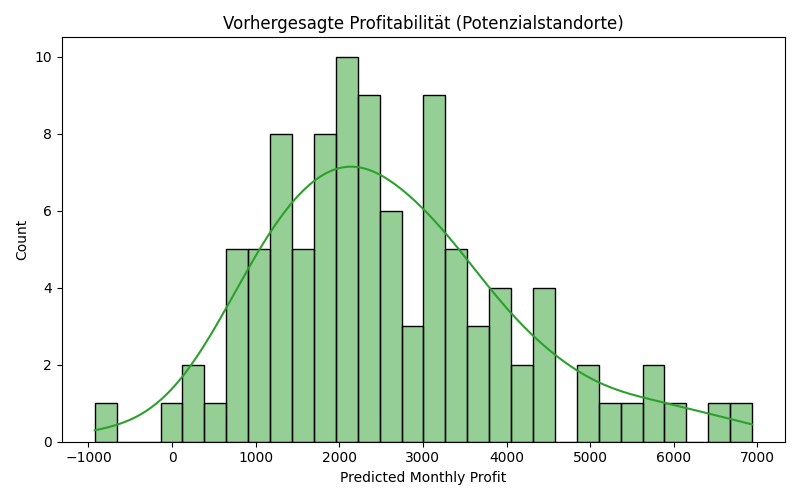
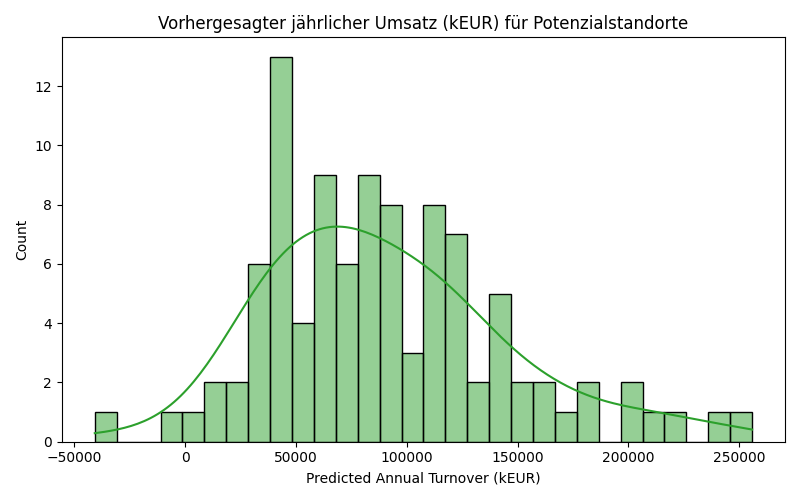
Refactor code structure for improved readability and maintainability

diff --git a/python/test.py b/python/test.py
@@ -11,7 +11,7 @@ import seaborn as sns
 from sklearn.compose import ColumnTransformer
 from sklearn.impute import SimpleImputer
 from sklearn.linear_model import LinearRegression
-from sklearn.metrics import mean_squared_error, r2_score
+from sklearn.metrics import mean_absolute_error, mean_squared_error, r2_score
 from sklearn.model_selection import train_test_split
 from sklearn.pipeline import Pipeline
 from sklearn.preprocessing import OneHotEncoder, PolynomialFeatures, StandardScaler
@@ -33,6 +33,7 @@ class ModelResult:
 	name: str
 	pipeline: Pipeline
 	mse: float
+	mae: float
 	r2: float
 
 
@@ -48,7 +49,7 @@ def prepare_datasets(
 	stores = stores.copy()
 	locations = locations.copy()
 
-	stores["monthly_profit"] = stores["monthly_revenue"] - stores["monthly_costs"]
+	stores["annual_turnover_kEUR"] = stores["monthly_revenue"] * 12
 
 	if "country" not in locations.columns:
 		locations["country"] = "Germany"
@@ -65,7 +66,7 @@ def prepare_datasets(
 		"monthly_costs",
 		"monthly_fixed_costs",
 		"monthly_variable_costs",
-		"monthly_profit",
+		"annual_turnover_kEUR",
 		"property_sqft",
 	}
 
@@ -77,7 +78,7 @@ def prepare_datasets(
 			feature_cols.append("square_meters")
 
 	X = stores[feature_cols]
-	y = stores["monthly_profit"]
+	y = stores["annual_turnover_kEUR"]
 	X_locations = locations[feature_cols]
 
 	return stores, X, y, X_locations, feature_cols
@@ -130,8 +131,9 @@ def evaluate_model(
 	pipeline.fit(X_train, y_train)
 	predictions = pipeline.predict(X_test)
 	mse = mean_squared_error(y_test, predictions)
+	mae = mean_absolute_error(y_test, predictions)
 	r2 = r2_score(y_test, predictions)
-	return ModelResult(name=name, pipeline=pipeline, mse=mse, r2=r2)
+	return ModelResult(name=name, pipeline=pipeline, mse=mse, mae=mae, r2=r2)
 
 
 def select_best_model(results: list[ModelResult]) -> ModelResult:
@@ -144,18 +146,18 @@ def save_plots(
 	png_dir.mkdir(parents=True, exist_ok=True)
 
 	plt.figure(figsize=(8, 5))
-	sns.histplot(stores["monthly_profit"], kde=True, bins=30)
-	plt.title("Distribution der monatlichen Profitabilität")
-	plt.xlabel("Monthly Profit")
+	sns.histplot(stores["annual_turnover_kEUR"], kde=True, bins=30)
+	plt.title("Verteilung des jährlichen Umsatzes (kEUR)")
+	plt.xlabel("Annual Turnover (kEUR)")
 	plt.ylabel("Count")
 	plt.tight_layout()
-	plt.savefig(png_dir / "monthly_profit_distribution.png")
+	plt.savefig(png_dir / "annual_turnover_distribution.png")
 	plt.close()
 
 	plt.figure(figsize=(8, 5))
 	sns.histplot(predictions, kde=True, bins=30, color="tab:green")
-	plt.title("Vorhergesagte Profitabilität (Potenzialstandorte)")
-	plt.xlabel("Predicted Monthly Profit")
+	plt.title("Vorhergesagter jährlicher Umsatz (kEUR) für Potenzialstandorte")
+	plt.xlabel("Predicted Annual Turnover (kEUR)")
 	plt.ylabel("Count")
 	plt.tight_layout()
 	plt.savefig(png_dir / "predicted_profit_distribution.png")
@@ -178,7 +180,7 @@ trainiert. Das beste Modell wurde anhand des $R^2$-Wertes auf dem Testdatensatz 
 ### Modellgüte
 {metrics_table}
 
-### Top 5 Standorte nach vorhergesagter Profitabilität
+### Top 10 Standorte nach vorhergesagter Umsatzprognose
 {top_table}
 
 ## Grenzen und reale Einflussfaktoren
@@ -233,6 +235,7 @@ def main() -> None:
 			{
 				"model": result.name,
 				"mse": round(result.mse, 2),
+				"mae": round(result.mae, 2),
 				"r2": round(result.r2, 4),
 			}
 			for result in results
@@ -242,17 +245,17 @@ def main() -> None:
 	best_model.pipeline.fit(X, y)
 	location_predictions = best_model.pipeline.predict(X_locations)
 	locations_scored = locations.copy()
-	locations_scored["predicted_monthly_profit"] = location_predictions
+	locations_scored["predicted_annual_turnover_kEUR"] = location_predictions
 
 	top_locations = (
-		locations_scored.sort_values("predicted_monthly_profit", ascending=False)
-		.head(5)
+		locations_scored.sort_values("predicted_annual_turnover_kEUR", ascending=False)
+		.head(10)
 		.loc[
 			:,
 			[
 				"potential_location_id",
 				"city",
-				"predicted_monthly_profit",
+				"predicted_annual_turnover_kEUR",
 				"population_density",
 				"median_household_income",
 				"number_of_competitors_1km",
@@ -264,7 +267,7 @@ def main() -> None:
 
 	metrics_df.to_csv(CSV_DIR / "model_metrics.csv", index=False)
 	locations_scored.to_csv(CSV_DIR / "predicted_locations.csv", index=False)
-	top_locations.to_csv(CSV_DIR / "top_5_recommendations.csv", index=False)
+	top_locations.to_csv(CSV_DIR / "top_10_recommendations.csv", index=False)
 
 	save_plots(stores, pd.Series(location_predictions), PNG_DIR)
 	write_report(top_locations, metrics_df, OTHER_DIR)
@@ -273,6 +276,7 @@ def main() -> None:
 	print("CSV-Ergebnisse gespeichert in outputs/csv/")
 	print("Plot-Dateien gespeichert in outputs/png/")
 	print("Bericht gespeichert in outputs/other/recommendation_report.md")
+	print("Top-10-Empfehlungen gespeichert in outputs/csv/top_10_recommendations.csv")
 
 
 if __name__ == "__main__":

diff --git a/python/generate_report_pdf.py b/python/generate_report_pdf.py
@@ -26,7 +26,7 @@ PDF_PATH = REPORT_DIR / "recommendation_report.pdf"
 TITLE = "Programming Assignment 2"
 SUBTITLE = "CoffeeTime Standortanalyse"
 COURSE = "Kurs IMBIT23A"
-AUTHORS = "Elyas Moukhli, Samuel Atama, Malik Yildizhan, Santiago Mehjide"
+AUTHORS = "Samuel Atama, Malik Yildizhan, Santiago Meijide, Julian Soady, Elyas Mouhkli"
 
 
 def is_table_separator(line: str) -> bool:

diff --git a/outputs/other/recommendation_report.md b/outputs/other/recommendation_report.md
@@ -5,19 +5,24 @@ Basierend auf dem historischen Datensatz wurden lineare und polynomiale Regressi
 trainiert. Das beste Modell wurde anhand des $R^2$-Wertes auf dem Testdatensatz gewählt.
 
 ### Modellgüte
-| model      |         mse |     r2 |
-|:-----------|------------:|-------:|
-| Linear     | 1.47208e+06 | 0.5585 |
-| Polynomial | 2.8438e+06  | 0.1471 |
+| model      |         mse |     mae |     r2 |
+|:-----------|------------:|--------:|-------:|
+| Linear     | 1.51347e+09 | 28476.5 | 0.635  |
+| Polynomial | 3.36185e+09 | 44656.9 | 0.1893 |
 
-### Top 5 Standorte nach vorhergesagter Profitabilität
-| potential_location_id   | city       |   predicted_monthly_profit |   population_density |   median_household_income |   number_of_competitors_1km |   traffic_count_nearby |   walkability_score |
-|:------------------------|:-----------|---------------------------:|---------------------:|--------------------------:|----------------------------:|-----------------------:|--------------------:|
-| POT_LOC_022             | Berlin     |                    6937.13 |              4612.75 |                   52637.3 |                           4 |                   3425 |            0.929758 |
-| POT_LOC_036             | Düsseldorf |                    6576.94 |              8356.14 |                   60465.6 |                           2 |                   1633 |            0.829328 |
-| POT_LOC_002             | Leipzig    |                    6060.34 |              5884.37 |                   49234.8 |                           2 |                   2503 |            0.813371 |
-| POT_LOC_058             | Berlin     |                    5852.96 |              4812.35 |                   48844.6 |                           5 |                   2339 |            0.791808 |
-| POT_LOC_079             | Hamburg    |                    5691.42 |              7141.52 |                   48266.7 |                           3 |                    749 |            0.582357 |
+### Top 10 Standorte nach vorhergesagter Umsatzprognose
+| potential_location_id   | city       |   predicted_annual_turnover_kEUR |   population_density |   median_household_income |   number_of_competitors_1km |   traffic_count_nearby |   walkability_score |
+|:------------------------|:-----------|---------------------------------:|---------------------:|--------------------------:|----------------------------:|-----------------------:|--------------------:|
+| POT_LOC_022             | Berlin     |                           255850 |              4612.75 |                   52637.3 |                           4 |                   3425 |            0.929758 |
+| POT_LOC_036             | Düsseldorf |                           239461 |              8356.14 |                   60465.6 |                           2 |                   1633 |            0.829328 |
+| POT_LOC_002             | Leipzig    |                           219981 |              5884.37 |                   49234.8 |                           2 |                   2503 |            0.813371 |
+| POT_LOC_058             | Berlin     |                           212205 |              4812.35 |                   48844.6 |                           5 |                   2339 |            0.791808 |
+| POT_LOC_079             | Hamburg    |                           205028 |              7141.52 |                   48266.7 |                           3 |                    749 |            0.582357 |
+| POT_LOC_006             | Berlin     |                           202754 |              4838.27 |                   50959.8 |                           2 |                   1325 |            0.763378 |
+| POT_LOC_053             | Essen      |                           180004 |              3655.41 |                   48467.9 |                           1 |                   2177 |            0.633395 |
+| POT_LOC_064             | Hamburg    |                           179000 |              2564.7  |                   40109.8 |                           5 |                   3822 |            0.90887  |
+| POT_LOC_038             | Berlin     |                           176673 |              4308.83 |                   43102.1 |                           4 |                   2309 |            0.811326 |
+| POT_LOC_024             | Hamburg    |                           166513 |              5130.37 |                   45975.4 |                           4 |                   2122 |            0.593353 |
 
 ## Grenzen und reale Einflussfaktoren
 - **Nicht beobachtbare Faktoren:** Mietverhandlungen, lokale Marketingeffekte oder Konkurrenzaktionen